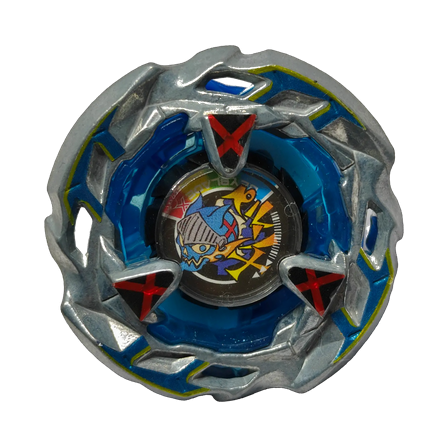
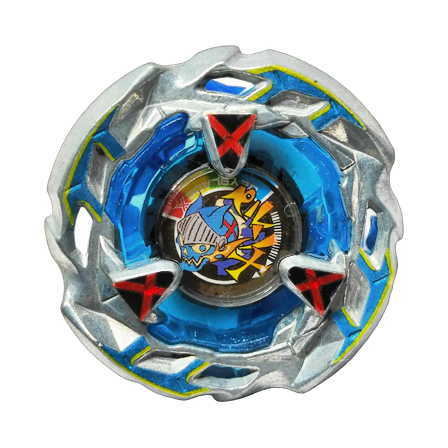
Match Hells Scythe front colors

diff --git a/index.html b/index.html
@@ -484,14 +484,14 @@
         "#app/services": "./src/app-services.js?v=20260714-scroll-affordance-overlay",
         "#app/markup-core": "./src/markup-core.js?v=20260714-scroll-affordance-overlay",
         "#app/anime-core": "./src/anime-core.js?v=20260720-burst-airdate-notes",
-        "#app/data-store": "./src/data-store.js?v=20260818-x-hells-scythe-3-80f-front-name",
+        "#app/data-store": "./src/data-store.js?v=20260818-x-hells-scythe-3-80f-color-match",
         "#app/search-data-decoder": "./src/search-data-decoder.js?v=20260720-burst-airdate-notes",
         "#app/ui-core": "./src/ui-core.js?v=20260731-mobile-highlight-fix",
         "#app/release-core": "./src/release-core.js?v=20260731-mobile-highlight-fix",
         "#app/scroll-affordance": "./src/scroll-affordance.js?v=20260719-dropdown-shadow-mounted-label",
         "#app/search-core": "./src/search-core.js?v=20260717-dead-code-cleanup",
         "#app/search-engine": "./src/search-engine.js?v=20260731-mobile-highlight-fix",
-        "#app/catalog-model": "./src/catalog-model.js?v=20260818-x-hells-scythe-3-80f-front-name",
+        "#app/catalog-model": "./src/catalog-model.js?v=20260818-x-hells-scythe-3-80f-color-match",
         "#app/collection-view": "./src/collection-view.js?v=20260731-mobile-highlight-fix",
         "#app/catalog-view": "./src/catalog-view.js?v=20260717-dead-code-cleanup",
         "#app/route-parser": "./src/route-parser.js?v=20260714-scroll-affordance-overlay",
@@ -500,7 +500,7 @@
         "#app/search-controller": "./src/search-controller.js?v=20260714-scroll-affordance-overlay",
         "#app/search-help-controller": "./src/search-help-controller.js?v=20260717-dead-code-cleanup",
         "#app/detail-view": "./src/detail-view.js?v=20260803-modal-tag-wheel-edge",
-        "#app/image-preview": "./src/image-preview.js?v=20260818-x-hells-scythe-3-80f-front-name",
+        "#app/image-preview": "./src/image-preview.js?v=20260818-x-hells-scythe-3-80f-color-match",
         "#app/modal-context": "./src/modal-context.js?v=20260714-scroll-affordance-overlay",
         "#app/style-loader": "./src/style-loader.js?v=20260804-mobile-modal-scrollbar-centering",
         "#app/feature-loaders": "./src/feature-loaders.js?v=20260717-dead-code-cleanup",

diff --git a/src/data-store.js b/src/data-store.js
@@ -8,7 +8,7 @@ const bookItems = [];
 const gameItems = [];
 const animeInfo = { title: "", overview: [], characters: [], episodes: [] };
 const searchIndexItems = [];
-const X_ASSET_CACHE_VERSION = "20260818-x-hells-scythe-3-80f-front-name";
+const X_ASSET_CACHE_VERSION = "20260818-x-hells-scythe-3-80f-color-match";
 
 const versionAssetUrl = source => {
   const value = String(source || "");

diff --git a/scripts/normalize-x-bey-front-images.py b/scripts/normalize-x-bey-front-images.py
@@ -16,7 +16,7 @@ from PIL import Image
 
 CONFIG_PATH = Path("data/source/x-bey-primary-images.json")
 ANGLE_CONFIG_PATH = Path("data/source/x-bey-angle-corrections.json")
-CONFIG_VERSION = "20260818-x-hells-scythe-3-80f-front-name"
+CONFIG_VERSION = "20260818-x-hells-scythe-3-80f-color-match"
 CANVAS_SIZE = 448
 TARGET_FOREGROUND_SIZE = 360
 ALPHA_THRESHOLD = 3

diff --git a/scripts/record-x-image-alpha-review.py b/scripts/record-x-image-alpha-review.py
@@ -14,7 +14,7 @@ from PIL import Image
 CANVAS_SIZE = 448
 MIN_MARGIN = 6
 MAX_FOREGROUND_SIZE = CANVAS_SIZE - MIN_MARGIN * 2
-REVIEW_VERSION = "20260818-x-hells-scythe-3-80f-front-name"
+REVIEW_VERSION = "20260818-x-hells-scythe-3-80f-color-match"
 
 
 def parse_args() -> argparse.Namespace:

diff --git a/scripts/build-x-bey-angle-corrections.py b/scripts/build-x-bey-angle-corrections.py
@@ -115,7 +115,7 @@ SUPPLIED_FRONT_IDS = {
     "BEY-X-UX-19-BULLET-GRIFFON-H",
     "BEY-X-UX-20-GLORY-VALKYRIE-LF",
 }
-CONFIG_VERSION = "20260818-x-hells-scythe-3-80f-front-name"
+CONFIG_VERSION = "20260818-x-hells-scythe-3-80f-color-match"
 
 
 def parse_args() -> argparse.Namespace:
